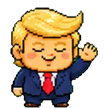
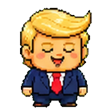
feat(character): Give Trump a talk cycle that talks, and a wave on greet (#1224)

diff --git a/scripts/generate-readme-gifs.py b/scripts/generate-readme-gifs.py
@@ -32,7 +32,7 @@ SHOWCASES = (
     ("nim-sleep.gif", "nim", "sleep", 4, 3),
     # Permission granted by MekaRamen (Yeoh Kher En) to publish (#388).
     ("timber-wolf-walk.gif", "timber-wolf", "walk", 20, 8),
-    ("trump-talk.gif", "trump", "talk", 3, 4),
+    ("trump-wave.gif", "trump", "wave", 3, 4),
 )
 
 

diff --git a/README.md b/README.md
@@ -101,7 +101,7 @@ Buddy Bot is the default. Eight Characters ship; each moves and speaks different
 <td align="center" width="25%"><img src="./docs/readme/jotaro-kujo-react.gif" height="96" alt="Jotaro Kujo" /><br><b><a href="./characters/jotaro-kujo/personality.txt">Jotaro Kujo</a></b><br><sub>Terse, perpetually bored, tougher than he lets on.</sub></td>
 <td align="center" width="25%"><img src="./docs/readme/nim-sleep.gif" height="96" alt="Nim" /><br><b><a href="./characters/nim/personality.txt">Nim</a></b><br><sub>Sleeps eleven hours a day. Soft-spoken.</sub></td>
 <td align="center" width="25%"><img src="./docs/readme/timber-wolf-walk.gif" height="96" alt="Timber Wolf" /><br><b><a href="./characters/timber-wolf/personality.txt">Timber Wolf</a></b><br><sub>Patrol mech. Clan warriors don't waste words.</sub></td>
-<td align="center" width="25%"><img src="./docs/readme/trump-talk.gif" height="96" alt="Trump" /><br><b><a href="./characters/trump/personality.txt">Trump</a></b><br><sub>The desktop is his rally. Bombastic.</sub></td>
+<td align="center" width="25%"><img src="./docs/readme/trump-wave.gif" height="96" alt="Trump" /><br><b><a href="./characters/trump/personality.txt">Trump</a></b><br><sub>The desktop is his rally. Bombastic.</sub></td>
 </tr>
 </table>
 
